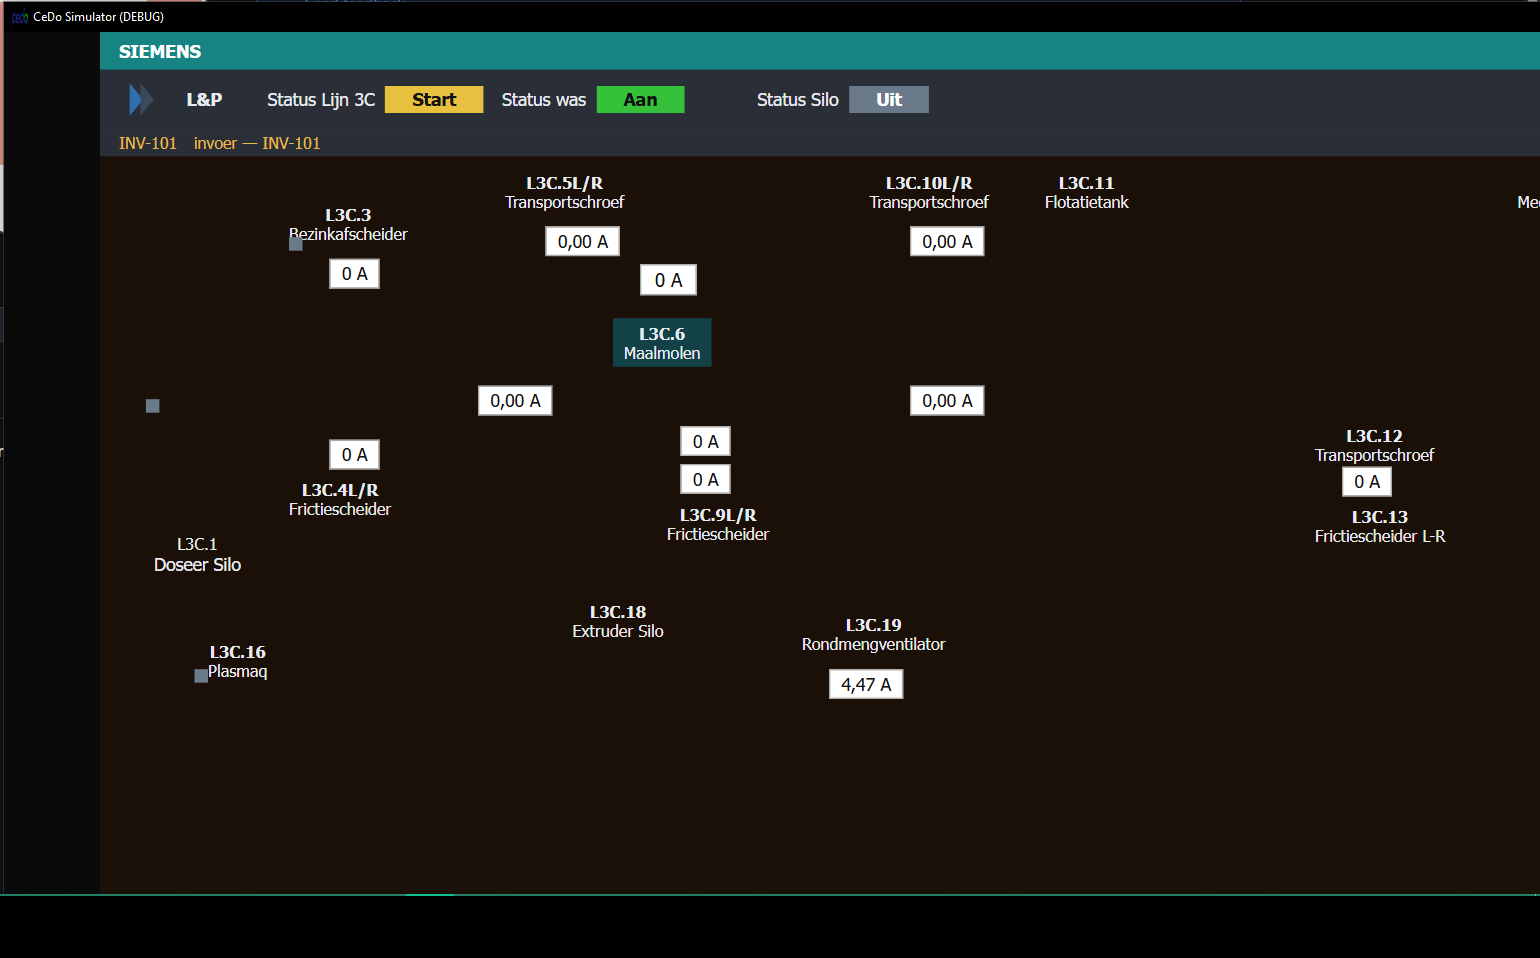
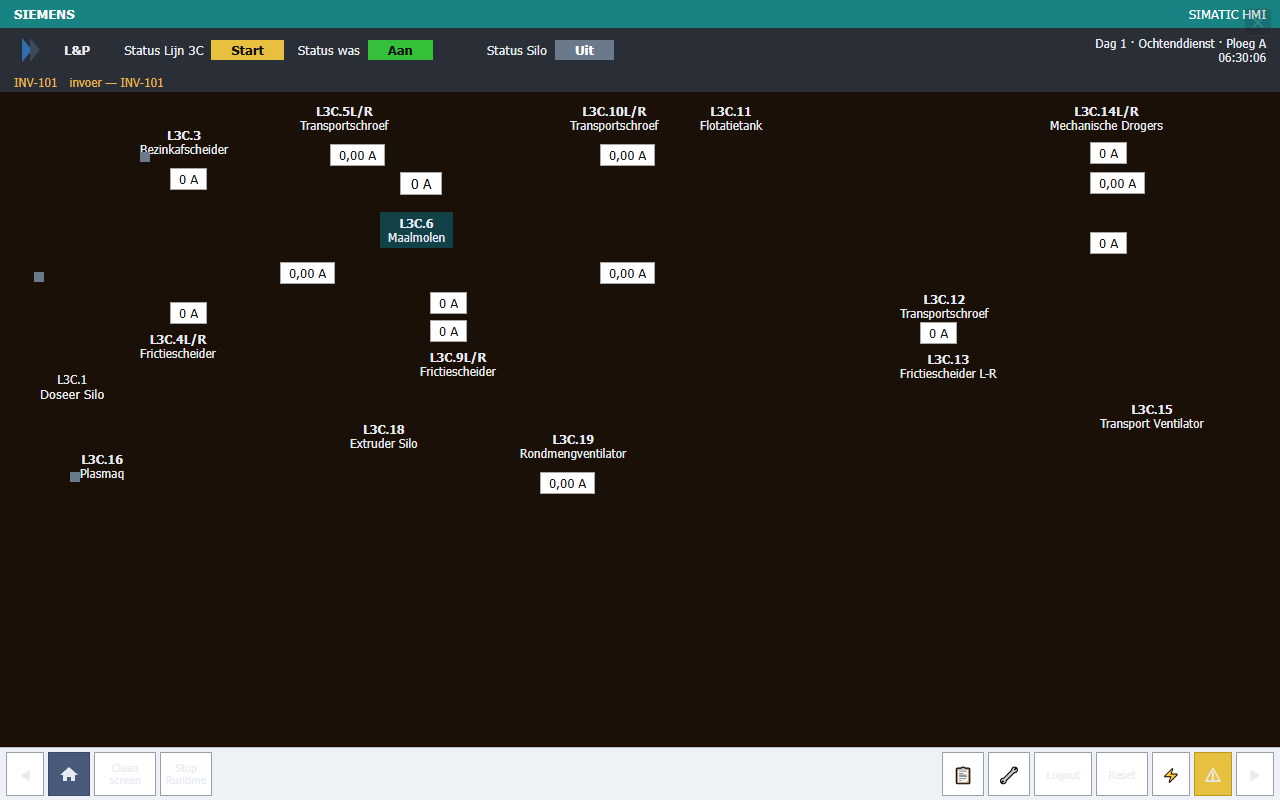
HMI: 7 panels open their own design; header clock is plant time, not PC time
Fidelity verified rather than claimed. Element-by-element diff of all 33
design exports, comparing each file as authored (its own dc runtime, React
18.3.1) against the same file rendered through hmi_shell.html — every
element's tag/x/y/width/height/background/color/font-size/font-weight:

  31 of 33 pixel-identical (identical element counts, zero geometry deltas)
   2 differ, both explained and benign:
     - Hotwash Lijn 6: the live clock text only (authored "17/02/2025
       20:17:08" -> live plant time), which changes an auto-width div
     - Waslijn 3C Stroom Trend: one polyline, because the DESIGN's own
       renderVals() builds its traces with Math.random()

CLOCK — real bug, found in-game. The page fell back to `new Date()`, so a
screen standing in the plant showed the player's PC clock: 04:20 real time
during an 07:00 shift, which looks entirely plausible in a screenshot.
gather_vals() now ships {date,time} from ShiftClock (calendar_string() +
plant HH:MM:SS); the JS fallback survives only for ?screen= preview use.
_find_shift_clock() searches current_scene THEN the whole tree — searching
only current_scene is what made the first fix silently no-op under a harness
that add_child()s MainWorld without assigning current_scene.

PANEL MAPPING — 1 -> 7 panels now open a real operator design:
  shredder l1 / shredder1 3A-3B / shredder 3C-6 -> WEIMA Vulpeil Trechter
  sorteerlijn 3A/3B                             -> Sorteerlijn Overzicht
[…]

diff --git a/docs/plant/hmi_screens_2026-07-26/hmi_shell.html b/docs/plant/hmi_screens_2026-07-26/hmi_shell.html
@@ -42,13 +42,20 @@ window.onerror = function (m, s, l) { window.__lastErr = m + " @" + s + ":" + l;
   #stage { position:absolute; inset:0; display:flex; align-items:center; justify-content:center; }
   #frame { border:0; background:#0a0a0a; flex:none; transform-origin:center center; }
   #frame.fluid { width:100%; height:100%; transform:none; }
+  /* Top-right of the WINDOW, which in game is letterbox gutter, not artwork:
+     a 1280x800 design in a 1920x1080 window scales 1.35x to 1728 wide, leaving
+     96 px of empty gutter each side. It only touches the design in the rare
+     exact-fit case (window sized to the design), so it is ghosted to 35% until
+     hovered. NOT bottom-left — that is where the screens' own ◀ prev button
+     lives and the two would fight for the same click. Esc closes as well. */
   #closeBtn {
-    position:fixed; top:10px; right:10px; z-index:10; width:34px; height:34px;
+    position:fixed; top:8px; right:8px; z-index:10; width:26px; height:26px;
     display:flex; align-items:center; justify-content:center; cursor:pointer;
-    background:rgba(40,44,52,.85); color:#dfe5ee; border:1px solid #4a505a;
-    border-radius:4px; font:700 16px/1 Tahoma,Verdana,sans-serif; user-select:none;
+    background:rgba(20,22,26,.45); color:#8b93a0; border:1px solid rgba(120,128,140,.35);
+    border-radius:4px; font:700 13px/1 Tahoma,Verdana,sans-serif; user-select:none;
+    opacity:.35; transition:opacity .15s, background .15s, color .15s;
   }
-  #closeBtn:hover { background:#a03030; color:#fff; }
+  #closeBtn:hover { opacity:1; background:#a03030; color:#fff; border-color:#c04040; }
   #err {
     position:fixed; left:12px; bottom:12px; z-index:10; max-width:60%;
     color:#e6b84a; font:12px/1.4 Tahoma,Verdana,sans-serif; white-space:pre-wrap; display:none;
@@ -236,12 +243,22 @@ function hmiBoot(win) {
       }
     });
   }
+  // Godot pushes the PLANT clock ({date,time}) with every vals message; a
+  // screen standing in the plant must not show the player's PC clock. The
+  // real-time fallback only applies outside the game (?screen= preview mode).
+  win.__hmiClock = null;
   win.setInterval(function () {
     if (!clockEls.length || !clockEls[0].isConnected) scanClock();
     if (!clockEls.length) return;
-    var n = new Date();
-    var ds = DAYS[n.getDay()] + " " + n.getDate() + " " + MONTHS[n.getMonth()] + " " + n.getFullYear();
-    var ts = pad(n.getHours()) + ":" + pad(n.getMinutes()) + ":" + pad(n.getSeconds());
+    var ds, ts;
+    if (win.__hmiClock && win.__hmiClock.date) {
+      ds = win.__hmiClock.date;
+      ts = win.__hmiClock.time || "";
+    } else {
+      var n = new Date();
+      ds = DAYS[n.getDay()] + " " + n.getDate() + " " + MONTHS[n.getMonth()] + " " + n.getFullYear();
+      ts = pad(n.getHours()) + ":" + pad(n.getMinutes()) + ":" + pad(n.getSeconds());
+    }
     clockEls.forEach(function (d) {
       d.children[0].textContent = ds;
       d.children[1].textContent = ts;
@@ -365,6 +382,7 @@ function hmiBoot(win) {
   }
 
   win.__hmiApply = function (msg) {
+    if (msg.clock && msg.clock.date) win.__hmiClock = msg.clock;
     if (bindingsStale()) bindings = scan();
     var units = msg.units || {};
     bindings.boxes.forEach(function (b) {
@@ -399,6 +417,25 @@ function hmiBoot(win) {
 }
 
 /* ── boot ────────────────────────────────────────────────────────────────── */
+
+// Standalone preview mode: hmi_shell.html?screen=<filename>[&vals=<json>]
+// loads a screen without Godot. This is how a screen gets eyeballed (or
+// headless-screenshotted) without booting the game — the in-game path is
+// unchanged, Godot still pushes screens over IPC.
+(function () {
+  var q = new URLSearchParams(location.search);
+  var want = q.get("screen");
+  if (!want) return;
+  fetch(encodeURI(want))
+    .then(function (r) { return r.text(); })
+    .then(function (html) {
+      openScreen(want, html);
+      var v = q.get("vals");
+      if (v) { try { lastVals = JSON.parse(v); } catch (e) { showErr("bad vals param: " + e); } }
+    })
+    .catch(function (e) { showErr("preview load failed: " + e); });
+})();
+
 sendIpc({ type: "ready" });
 </script>
 </body>
